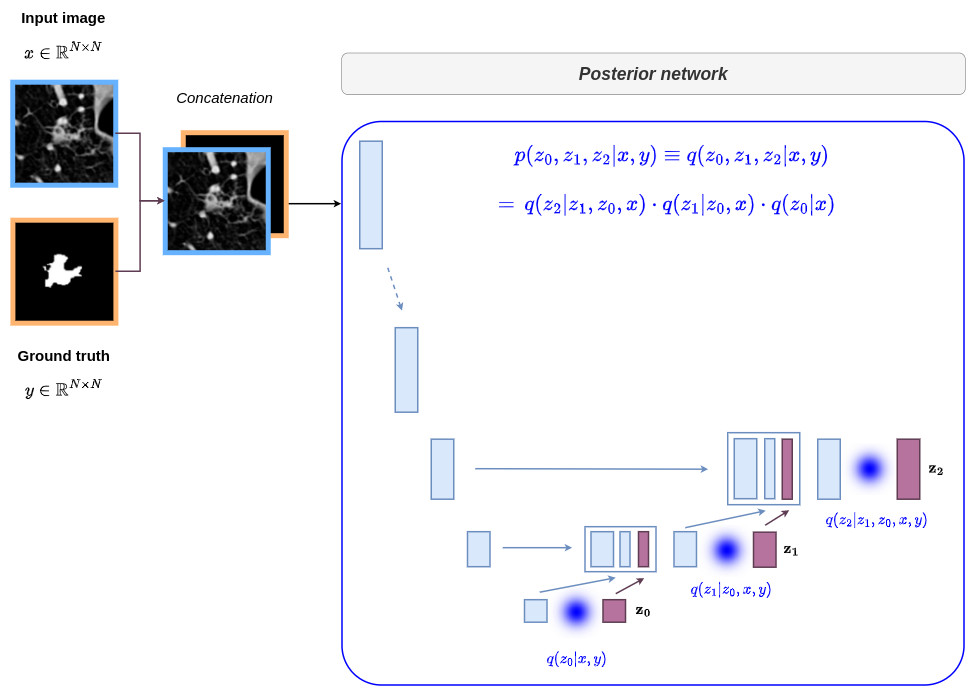
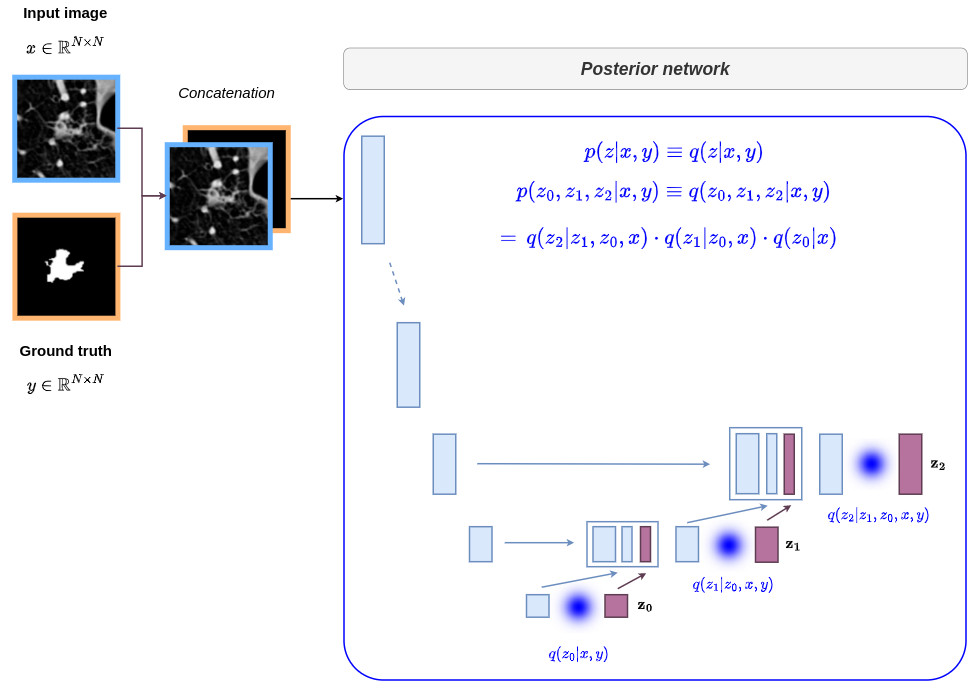
work on the description of the architecture and implementation

diff --git a/collections/_posts/2022-10-24-HierarchicalProbabilisticUNet.md b/collections/_posts/2022-10-24-HierarchicalProbabilisticUNet.md
@@ -17,28 +17,52 @@ pdf: "https://proceedings.neurips.cc/paper/2018/file/473447ac58e1cd7e96172575f48
 # Highlights
 
 * The objective of this paper is to develop a generative model for semantic segmentation able to learn complex-structured conditional distribution.
-* The main innovation concerns the design of a generative segmentation model with a conditional VAE that uses a hierarchical latent space decomposition.
-* The proposed framework is capable of modelling distributions over segmentations including independently varying scales and locations.
-* The proposed framework is capable of modelling factors of variations across space and scale.
+* The innovation comes from the modelling of a coarse-to-fine hierarchy of latent variables to improve fidelity to fine structures in the models' samples and reconstructions.
+* The proposed framework is capable of modelling distributions over segmentations with factors of variations across space and scale.
 
 
 # Method
 
 ## Appetizer
 
-The following animation illustrates the capacity of the method in modelling factors of variations across space and scale:
+The following animation illustrates the capacity of the method in modelling complex structured distributions across scales.
 
 ![](/collections/images/hierarchical_probabilistic_unet/animation.gif)
 
 ## Architecture
 
 * The architecture is based on the ***conditional VAE*** whose details are provided in the following [tutorial](https://creatis-myriad.github.io/tutorials/2022-09-12-tutorial-cvae.html).
-* The innovation comes from the modelling of hiearchy in the latent space
+* The main innovation comes from the following hierarchical modelling of the latent space:
 
+$$p\left(\boldsymbol{z} \vert x\right) = p\left(z_0,\ldots,z_L \vert x\right) = p\left(z_L \vert z_{<L},x\right) \cdot \, \ldots \, \cdot p\left(z_0 \vert x\right)$$
+
+$$q\left(\boldsymbol{z} \vert x,y\right) = q\left(z_0,\ldots,z_L \vert x,y\right) = q\left(z_L \vert z_{<L},x,y\right) \cdot \, \ldots \, \cdot q\left(z_0 \vert x,y\right)$$
+
+In the particular case where $$L=2$$, the above equation can be put in the following form:
+
+$$p\left(\boldsymbol{z} \vert x\right) = p\left(z_2 \vert z_1,z_0,x\right) \cdot p\left(z_1 \vert z_0,x\right) \cdot p\left(z_0 \vert x\right)$$
+
+$$q\left(\boldsymbol{z} \vert x,y\right) = q\left(z_2 \vert z_1,z_0,x,y\right) \cdot q\left(z_1 \vert z_0,x,y\right) \cdot q\left(z_0 \vert x,y\right)$$
+
+* Taking into account the hierarchical modelling, a new ELBO objective with a relative weighting factor $$\beta$$ was formulated as follows:
+
+$$\mathcal{L}_{ELBO} = \mathbb{E}_{z\sim q(z \vert x,y)} [CE\left( y,\hat{y}\right)] + \beta \cdot \sum_{i=0}^{L} \mathbb{E}_{z_i\sim q(z_i \vert z_{<i},x,y)} [D_{KL}(q(z_i \vert z_{<i},x,y) \parallel p(z_i \vert z_{<i},x))]$$
+
+* The authirs observed that the minimization of $$\mathcal{L}_{ELBO}$$ leads to sub-optimally results. For this reason, they used the recently proposed $$GECO$$ loss:
+
+$$\mathcal{L}_{GECO} = \lambda \cdot \left( \mathbb{E}_{z\sim q(z \vert x,y)} [CE\left( y,\hat{y}\right)] - \kappa \right) + \sum_{i=0}^{L} \mathbb{E}_{z_i\sim q(z_i \vert z_{<i},x,y)} [D_{KL}(q(z_i \vert z_{<i},x,y) \parallel p(z_i \vert z_{<i},x))]$$
+
+where $$\kappa$$ is chosen as the desired reconstruction error and $$\lambda$$ is a Lagrange multiplier that is updated as a function of the exponential moving average of the reconstruction contraint.
+
+> This formulation initially puts high pressure on the reconstruction and once the desired $$\kappa$$ is reached it increasingly moves the pressure over on the KL-term.
+
+* Finally, the prior and the generator networks are based on the same U-Net architecture, which results in parameter and run-time savings.
 
 The overall architecture is given below:
 
 ![](/collections/images/hierarchical_probabilistic_unet/overall_architecture.jpg)
+
+![](/collections/images/hierarchical_probabilistic_unet/inference_phase.jpg)
 
 &nbsp;
 
@@ -46,15 +70,19 @@ This architecture can be difficult to understand at first sight. Therefore I sho
 
 ![](/collections/images/hierarchical_probabilistic_unet/prior_network.jpg)
 
-&nbsp;
-
 ![](/collections/images/hierarchical_probabilistic_unet/posterior_network.jpg)
+
+![](/collections/images/hierarchical_probabilistic_unet/generative_network.jpg)
 
 &nbsp;
 
 ## Implementation details
 
-* TODO
+* U-Nets are composed by res-blocks. 
+
+> Without the use of res-blocks, the KL-terms between distributions at the begining of the hiearchy often become $$\, 0$$ early in the training, essentially resulting in uninformative and thus unused latents. 
+
+* The number of latent scales is chosen empirically such as to allow for a sufficiently granular effect of the latent hierarchy. For the tasks and image resolutions considered, the authors found 3 to 5 latent scales to work well.
 
 ## Performance measures
 
